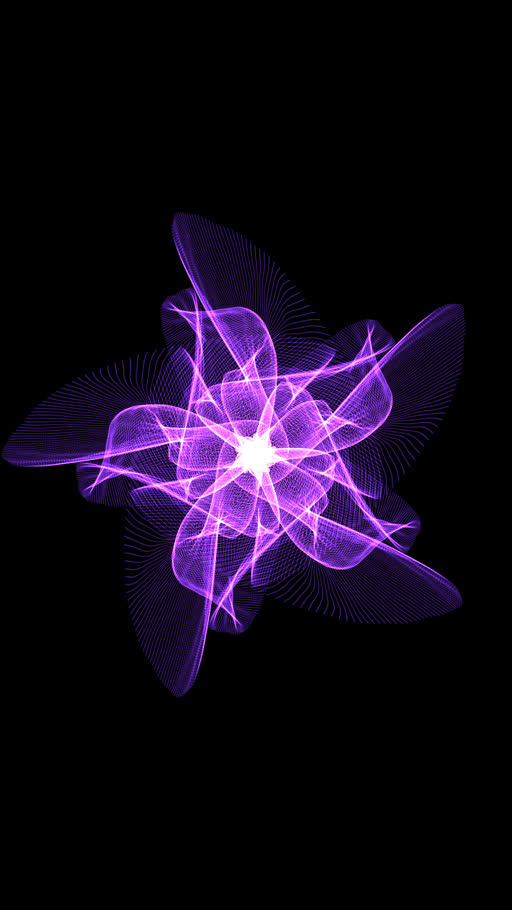
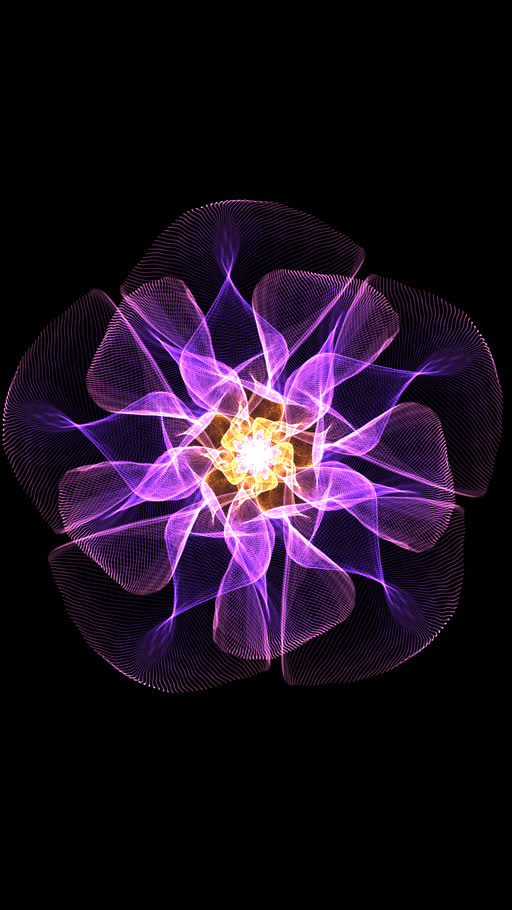
Updated soundform_2d.glsl

Changed region(s): [[0.0, 0.2154, 1.0, 0.7692]]

diff --git a/animation/glsl/soundform_2d.js b/animation/glsl/soundform_2d.js
@@ -1,6 +1,6 @@
 import { openEXR } from "../../lib/exr.js";
 
-const QTN = 12;
+const QTN = 16;
 
 export async function initChannels(iChannels) {
   let ch1 = iChannels[1];
@@ -14,7 +14,7 @@ export async function initChannels(iChannels) {
 export function drawFrame(ctx, args) {
   ctx.runShader({ ...args, iChannelId: 0 }, 0);
   
-  for (let i = 0; i < QTN; i++)
+  for (let i = 0; i <= QTN; i++)
     ctx.runShader({ ...args, iChannelId: 2 }, 2);
   
   ctx.runShader({ ...args, iChannelId: 3 }, 3);
